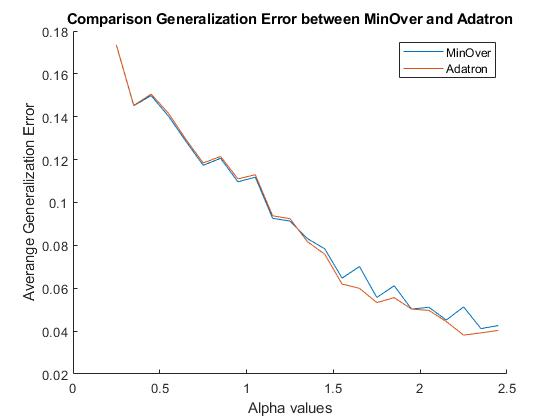
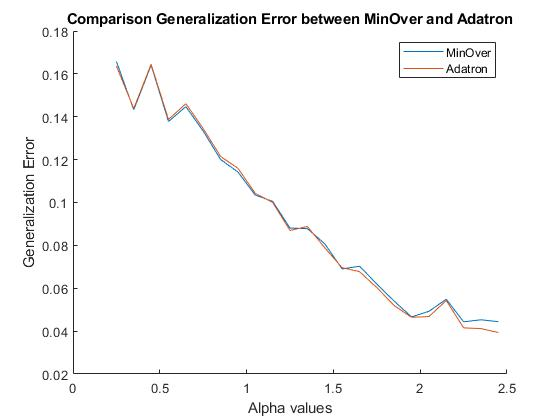
Assigment2 updated

Changed region(s): [[0.3339, 0.3095, 0.9107, 0.8048], [0.2125, 0.1238, 0.3643, 0.3405], [0.0304, 0.2476, 0.0607, 0.7119]]

diff --git a/Assignment 2/Assigment2.m b/Assignment 2/Assigment2.m
@@ -38,7 +38,7 @@ for s_alfa = 1:size(Alpha,2)
         
         %MinOver
         tic
-        [W_minOver,t1] = MinOver(Samples,Labels,50*NSamples);
+        [W_minOver,t1] = MinOver(Samples,Labels,50*NSamples,W);
         T_MinOver(s_alfa) = T_MinOver(s_alfa) + toc;
         Kw_MinOver(s_alfa) = Kw_MinOver(s_alfa) + Stability(W_minOver,Samples,Labels);
         
@@ -71,7 +71,7 @@ plot(Alpha,Eg_MinOver)
 plot(Alpha,Eg_Adatron)
 legend('MinOver','Adatron')
 xlabel('Alpha values') 
-ylabel('Averange Generalization Error') 
+ylabel('Generalization Error') 
 
 
 %Stabilities Figure
@@ -83,7 +83,7 @@ plot(Alpha,Kw_MinOver)
 plot(Alpha,Kw_Adatron)
 legend('Perceptron','MinOver','Adatron')
 xlabel('Alpha values') 
-ylabel('Averange K(w)') 
+ylabel('K(w)') 
 
 %Time Figure
 figure
@@ -93,4 +93,4 @@ plot(Alpha,T_MinOver)
 plot(Alpha,T_Adatron)
 legend('MinOver','Adatron')
 xlabel('Alpha values') 
-ylabel('Averange Time (s)') 
+ylabel('Time (s)') 

diff --git a/Assignment 2/Adatron.m b/Assignment 2/Adatron.m
@@ -27,7 +27,6 @@ function [W,t,X] = Adatron(Samples,Labels,Tmax,eta)
         X = max(X,0); 
         
 
-
         %Next Sample
         step = step +1;
         if step > NSamples
